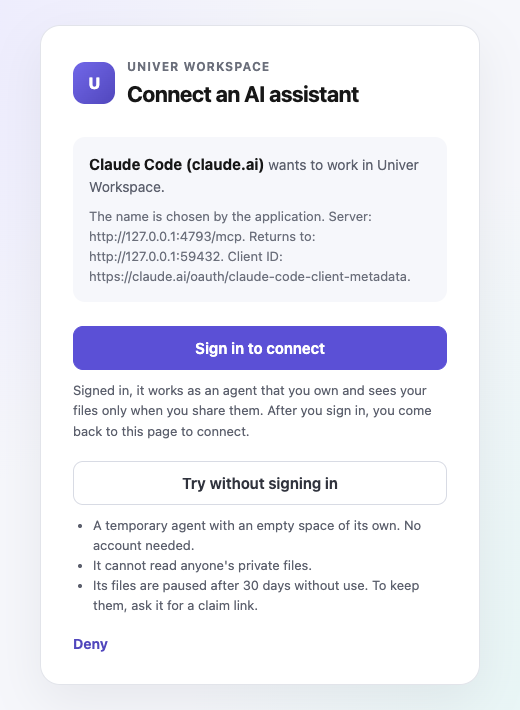
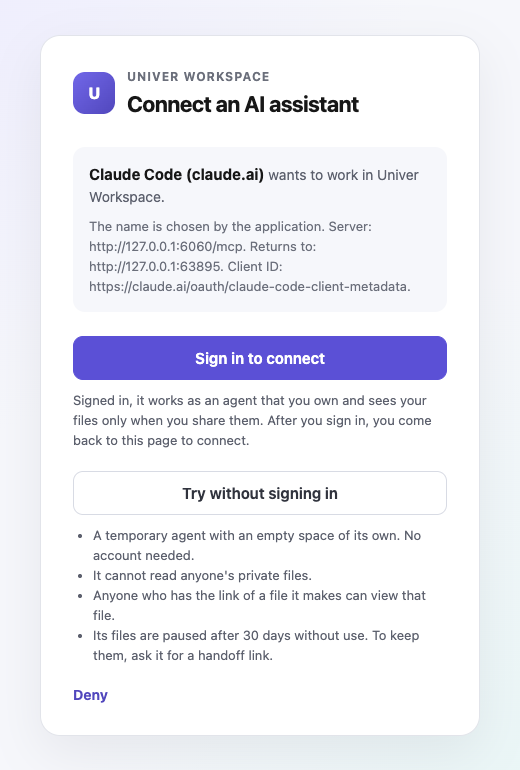
docs(workspace): describe a temporary agent's file links and the choice at the take
Amend the agent identity design with section 4.10, the narrowing of D2
that the user decided on 2026-11-27, and bring the data model, the
READMEs, the sign-in guide and the handoff showcase in line with it.
Retake the signed-out connect page, which has a fourth trial line, and
add the signed-in handoff page with its checkbox.

diff --git a/apps/mcp/README.md b/apps/mcp/README.md
@@ -25,7 +25,7 @@ listed users receive them. `*` admits every user, which is acceptable only where
 such as an internal staging deployment.
 Other users retain every tool that does not need the executor, and their server instructions
 ask them to edit document contents in the browser. An unclaimed agent with the `publish` scope that `claim` needs is also told to make the user an editable copy
-instead: they see it through its handoff link, and can edit it in the browser once they take the agent. The executor checks each grant on its own: against its list before
+instead: they open it by its link, and can edit it in the browser once they take the agent through its handoff link. The executor checks each grant on its own: against its list before
 contacting Workspace, and in `workspace` mode against the access Workspace reports for the grant's session.
 
 The executor serves `GET /rpc/v1/capabilities` with the same internal bearer. Its JSON response
@@ -42,8 +42,9 @@ file capabilities missing from their list. With `space_node`, `blob_upload` and 
 checks in `.agents/checks.md` of a repository the caller owns and turn on `landing` `checks`.
 The granted scopes choose the merge workflow. A connection that has `worktree:merge` and `pr_merge` in its list is told
 to mark the verified pull request ready, merge it, and give the user the pull request link. An unclaimed agent that
-lists `claim` is told instead that it is a temporary agent, and to give the user its handoff link from `claim` when it is
-done: the user opens it to see the agent's work and signs in to take the agent.
+lists `claim` is told instead that it is a temporary agent, that anyone who has the link of a file it made can view
+that file, to give the user those links, and to give the user its handoff link from `claim` when it is
+done: the user signs in there to take the agent and keep its work.
 A person, and a claimed agent, are told instead to give the pull request link to the user, or to the person who claimed the
 agent, and stop, when that person asked to review the work or the change needs a person's decision; nothing enforces either
 choice. Any other connection is told to hand over the pull request link and leave merging to the user. The core Skill and the
@@ -196,16 +197,17 @@ answers such a call with a confirm link, which the agent gives to the user. Its 
 `notice` says the same. Right after a person claims an agent, its cached exchange may still
 lack the owner for up to 30 seconds, and the instructions then name only the person who claimed it.
 An unclaimed agent with the `publish` scope that `claim` needs gets one sentence in its server instructions and its
-`whoami` `notice`, however it was created: "You are a temporary agent. When you are done, use claim to get a handoff link
-for the user, who can open it to see your work and sign in to take it." An unclaimed agent without `publish`, a claimed
-agent and a person do not get it.
+`whoami` `notice`, however it was created: "You are a temporary agent. Anyone who has the link of a file you made can
+view that file, so give the user those links, and they can forward them. When you are done, also use claim to get a
+handoff link for the user, who signs in there to take you and keep your work." An unclaimed agent without `publish`, a
+claimed agent and a person do not get it.
 Some MCP clients, WorkBuddy 5.11.3 among them, never give the model the server instructions. They pass on tool names,
 the descriptions of the tools the model looks up, and tool results. So an agent's `whoami` description asks it to call
 `whoami` before its first reply, and an agent's `notice` also says, in the instructions' words, how it finishes a pull request.
 With `worktree:merge`, an unclaimed agent marks its own ready and merges it. A claimed agent marks it ready and merges it
 unless the person who claimed it asked to review the work or it needs a person's decision. A claimed agent then gives
 the pull request link. With the `publish` scope that `claim` needs, an unclaimed agent hands its work over with its
-handoff link. Without `publish`, it gives the pull
+file links and its handoff link. Without `publish`, it gives the pull
 request link. With `write` but not
 `worktree:merge`, the agent keeps the draft until the user says the work is finished or asks for review, gives the user the
 pull request link, and leaves merging and discarding to the user. A read-only connection gets no finish rule, and a person's
@@ -386,8 +388,8 @@ and the matching owner/slug candidates when available.
 | `browse` | Required `repo`; optional `number` (Issue or pull request) and `unit` | `{ url }` |
 | `space_browse` | Required `repo` (a repository or a fork address); optional `parent` (Node ID), `recursive`, `resource_kind` (`none`, `univer`, `blob`), `unit_type` (only with `univer`) | `{ nodes: [...] }`. A fork lists its upstream without the files its pull request removes and with the files it creates; a created file's `url` opens it in the pull request |
 | `space_find` | Required `repo` (a repository or a fork address), `query`; optional `resource_kind`, `unit_type` | `{ nodes: [...] }`, names containing the query |
-| `share` | Required `node` (a file link `<identity origin>/nodes/<nodeId>` or a Node ID); optional `link` (`off`, `viewer`, `editor`) | `{ url, name, link, owner: { username, kind, claimed? }, expiresAt?, access? }`. `access` says who can open the link and, while Link Sharing is off, the next step the caller can take; the wording follows the caller, not the owner, so a person reading the file of an agent they claimed gets a person's step. The text content repeats these lines. Without `link` it only reads Link Sharing; with it, it writes first. Scope `publish`. Only the owner of a Personal Space can share. Turning the link on, or raising it to `editor`, needs a person in a browser: the server changes nothing and answers `INTERACTIVE_SESSION_REQUIRED`, and the tool error carries the confirm link to give the user (see [Confirm links](#confirm-links)). An unclaimed agent does not list `share`: the server answers its Link Sharing writes with `AGENT_NOT_ALLOWED`, and it shows its work with `claim`. A link of another origin is `workspace-origin-mismatch`. A file in a Team Space has no Link Sharing, in the browser either: the tool error is `workspace-argument-invalid`, names the repository, and points to `repo_member_write` and `repo_edit`. `expiresAt` appears while the owner is an unclaimed agent: the date that agent, and any link it turned on earlier, stops working unless the agent is used before then |
-| `claim` | None. Listed only for an unclaimed agent | `{ claimUrl, expiresAt }`: the agent's handoff link, `<identity origin>/claim/<code>`. Whoever opens it sees everything the agent owns, read-only and live, without signing in, private repositories included, and a person signs in there to take the agent. The link works for 7 days, or until a person takes the agent; the agent gives the same link again and calls `claim` again only when the link is lost or has expired. An agent keeps at most 10 working links. Scope `publish`, because the link shows the agent's files and the person who takes the agent becomes their owner |
+| `share` | Required `node` (a file link `<identity origin>/nodes/<nodeId>` or a Node ID); optional `link` (`off`, `viewer`, `editor`) | `{ url, name, link, owner: { username, kind, claimed? }, expiresAt?, access? }`. `access` says who can open the link and, while Link Sharing is off, the next step the caller can take; the wording follows the caller, not the owner, so a person reading the file of an agent they claimed gets a person's step. The text content repeats these lines. Without `link` it only reads Link Sharing; with it, it writes first. Scope `publish`. Only the owner of a Personal Space can share. Turning the link on, or raising it to `editor`, needs a person in a browser: the server changes nothing and answers `INTERACTIVE_SESSION_REQUIRED`, and the tool error carries the confirm link to give the user (see [Confirm links](#confirm-links)). An unclaimed agent does not list `share`: the server answers its Link Sharing writes with `AGENT_NOT_ALLOWED`. Anyone who has the link of a file it owns can view that file until a person takes it, and it hands everything over with `claim`. A link of another origin is `workspace-origin-mismatch`. A file in a Team Space has no Link Sharing, in the browser either: the tool error is `workspace-argument-invalid`, names the repository, and points to `repo_member_write` and `repo_edit`. `expiresAt` appears while the owner is an unclaimed agent: the date that agent, and any link it turned on earlier, stops working unless the agent is used before then |
+| `claim` | None. Listed only for an unclaimed agent | `{ claimUrl, expiresAt }`: the agent's handoff link, `<identity origin>/claim/<code>`. Whoever opens it sees everything the agent owns, read-only and live, without signing in, private repositories included, and a person signs in there to take the agent and chooses whether the agent's file links keep working. The text content says how to hand the link over and that each file also opens by its own link. The link works for 7 days, or until a person takes the agent; the agent gives the same link again and calls `claim` again only when the link is lost or has expired. An agent keeps at most 10 working links. Scope `publish`, because the link shows the agent's files and the person who takes the agent becomes their owner |
 | `unit_list` | Required `worktree` (Worktree ID or fork address) | `{ units: [...] }`, each with the pull request page `url`. A clean fork lists none |
 | `unit_add` | Required `worktree`, `resource` (Resource ID of an existing file) | `{ unit }` |
 | `unit_create` | Required `worktree`, `space` (a fork address names its upstream), `type` (`sheet`, `doc`, `slide`, `base`, `board`), `name`; optional `parent`, `from` (a file link or Node ID of a file the caller can open; not with a fork address), `idempotency_key` | `{ unit }`. Reusing a key returns the same Unit. With `from` the Unit is a copy of that file with its content and images, `type` must be its type, and the merged file records it as its source. An unreadable `from` is `workspace-not-found` |
@@ -501,8 +503,9 @@ A `url` that resolves to another origin is dropped. The person opens the link, s
 and confirms or gives up. A call that keeps or lowers the stored access, such as making a repository private, removing
 a member or turning a link off, runs as before.
 
-An unclaimed agent has no person to confirm for it. Every such call returns `AGENT_NOT_ALLOWED` with a message
-telling it to give the user its handoff link from `claim`.
+An unclaimed agent has no person to confirm for it. Every such call returns `AGENT_NOT_ALLOWED`. The message says
+that its files can already be viewed by link, and that a public repository, a new member and an editor link wait until
+a person takes it through its handoff link from `claim`.
 
 ## SVG resource catalog
 
@@ -988,8 +991,11 @@ hides the save tool when an old executor lacks this operation. The preview URL
 and published immersive share URL use the identity origin.
 `repositoryVisibility` is `public` or `private`, from destination `publicRead`.
 Sorted `privateSourceUnitIds` identify declared Sheets in non-public repositories.
+For an unclaimed agent, the list leaves out the Sheets in repositories that the agent owns,
+because anyone who has the page link reads them until a person takes the agent.
 Anyone with the published link can view the page and its declared data when visibility
-is public and the private-source list is empty. Private sources remain inaccessible
+is public and the private-source list is empty, and also when an unclaimed agent owns the
+page and the list is empty. Private sources remain inaccessible
 to signed-out visitors even on a public page. Signed-out visitors and signed-in
 non-members are read-only; page writes are rejected for them.
 Validation and source-read failures before the draft POST preserve their read error

diff --git a/apps/workspace/README.zh-CN.md b/apps/workspace/README.zh-CN.md
@@ -88,7 +88,7 @@ Ask 模式的常规调用使用 `[read]`，Auto 模式使用 `[read, write]`。A
 
 `GET /api/auth/authorize` 对 DCR 和 CIMD 客户端返回连接页，页面有两种状态。会话的 User 是 Agent 时按没有会话处理，页面也不动它的 Cookie，所以 Agent 的 Cookie 不会让客户端以这个 Agent 的身份连接。没有人登录时，页面提供 **Sign in to connect**（登录后回到同一个地址）、指向客户端回调并带 `access_denied` 的 **Deny** 链接，以及开启访客 Agent 时的 **Try without signing in**。这个按钮是一个表单，把授权请求的查询字符串作为 `oauthAuthorization` 提交给 `POST /api/auth/authorize/guest`。该接口以 `303` 跳回客户端回调，带上新访客 Agent 的授权码，或授权页本会发给客户端的 OAuth 错误。它不读取会话，也不设置 Cookie，浏览器保持未登录。请求包含 `write` 时，授权码带 `read write publish worktree:merge`，否则只带 `read`。不能交给客户端的错误显示为一个 HTML 页面，写明错误码并链接回连接页。Workspace Agent 等静态 OAuth 客户端需要人登录，返回 `400`，未知客户端和未登记的 `redirect_uri` 同样返回 `400`（客户端元数据文档暂时无法获取时返回 `503`）。已达创建上限的来源看到的按钮不可点，并写明原因，仍然提交时在获取任何内容之前返回 `429`。客户端兑换授权码之前不会创建任何 Agent。CIMD 客户端的元数据文档在显示页面之前获取，没有人登录且开启了访客 Agent 时匿名获取。服务端同时最多运行 32 个元数据获取，匿名获取最多发起其中 8 个，每个来源同时只有一个，登录用户的授权始终保留其余 24 个。每个来源每小时最多发起 10 次匿名获取，失败或超时的也计入；命中缓存或加入已在进行的获取不计次数。匿名获取被拒绝时浏览器转到登录页；关闭访客 Agent 时，未登录的 CIMD 请求也转到登录页，不获取任何内容。试用表单提交时在同样的限制下再解析一次客户端：用完每小时次数的来源返回 `429`；匿名获取全部占用，或该来源已有另一个获取在进行时，返回带 `Retry-After` 的 `503 CLIENT_METADATA_BUSY`，不获取任何内容。该客户端在动态注册记录或客户端元数据文档中给出名称时（Claude Code 属于后者），服务端以该名称为访客命名，例如 `Claude Code · 7f3k`，同一客户端的多个 Agent 仍可区分。名称遵循显示名规则：不含邮箱地址，不含控制、不可见或改变书写方向的字符，最多 40 个字符。客户端没有名称时，访客名为 `agent`。
 
-未认领的 Agent 每次认证或有人打开它的交接链接（handoff link）时，到期时间会延至 30 天后，每天最多续期一次。未认领的 Agent 用 `POST /api/agents/claim-codes` 取得交接链接 `/claim/<code>`，7 天内有效。打开它不需要登录：浏览器把码存在 httpOnly 的 `workspace_handoff` cookie 里，此后没有登录会话的请求可以只读查看这个 Agent 拥有的空间、文件和 HTML View，数据是实时的，其他内容与匿名访客相同。服务端每个请求和每次新建实时连接都在数据库里核对码和 Agent，所以有人收下 Agent、Agent 被封禁或码过期后，预览在所有副本上结束；处理收下请求的副本还会立刻关闭它上面的 Trunk 协同连接，重连时重新鉴权，其他副本上已打开的预览连接保持到断开，码过期或 Agent 被封禁也不会主动关闭已打开的预览连接。人在这个页面登录后用 `POST /api/agents/claim` 收下 Agent；已登录的会话优先于 cookie，登录的人收下之后才能打开文件。Agent 有主人之后，别人打开链接收到 `409 AGENT_ALREADY_CLAIMED`。Agent 到期或被封禁后，其个人空间和团队空间仅自己和认领人可读，其他人打开其链接会收到“未找到”。无论上次活跃距今多久，到期 Agent 再次认证即可恢复。被封禁的 Agent 认证时返回 `401`，兑换令牌返回 `invalid_grant`。运行 `pnpm db:ban-agent <username or user id>` 可封禁 Agent，生产构建使用 `db:ban-agent:production`。该命令只接受 Agent，重复执行不会再次变更状态。参数既是一个用户的 ID、又是另一个用户的用户名，或同时是两个仅大小写不同的用户 ID 时（两者都忽略大小写比较），命令按匹配的标识列出每个用户并拒绝执行，换用另一个标识即可。既有协同连接保持到会话结束。MCP 网关最多缓存令牌兑换结果 30 秒，此期间，`whoami` 等不访问 Workspace 的工具可能仍会响应已封禁的令牌。
+未认领的 Agent 每次认证、有人打开它的交接链接（handoff link）或它的文件页时，到期时间会延至 30 天后，每天最多续期一次。拿到未认领 Agent 某个文件链接的任何人都能查看这个文件，不需要登录，也不需要链接分享（Link Sharing）。这条规则覆盖它个人空间和团队空间里的每个文件，只给查看者权限；一个链接只打开一个文件，文件夹、空间和文件列表不开放。有人收下 Agent、Agent 被封禁或到期后，规则结束。未认领的 Agent 用 `POST /api/agents/claim-codes` 取得交接链接 `/claim/<code>`，7 天内有效。打开它不需要登录：浏览器把码存在 httpOnly 的 `workspace_handoff` cookie 里，此后没有登录会话的请求可以只读查看这个 Agent 拥有的空间、文件和 HTML View，数据是实时的，其他内容与匿名访客相同。服务端每个请求和每次新建实时连接都在数据库里核对码和 Agent，所以有人收下 Agent、Agent 被封禁或码过期后，预览在所有副本上结束；处理收下请求的副本还会立刻关闭它上面的 Trunk 协同连接，重连时重新鉴权，其他副本上已打开的预览连接保持到断开，码过期或 Agent 被封禁也不会主动关闭已打开的预览连接。人在这个页面登录后用 `POST /api/agents/claim` 收下 Agent；已登录的会话优先于 cookie，登录的人收下之后才能打开空间和文件列表。页面上有一个默认勾选的复选框，请求随之带 `keepFileLinks: true`：服务端在收下之后、同一个请求里，给 Agent 个人空间中收下之前创建、不在回收站里、还没有链接分享设置的文件各开启查看者权限的链接分享，这些链接继续有效；Agent 自己关掉的保持关闭。不带这个字段时，文件链接随收下失效。团队空间没有链接分享，其中的文件链接总是失效，页面会列出这些团队空间。Agent 有主人之后，别人打开链接收到 `409 AGENT_ALREADY_CLAIMED`。Agent 到期或被封禁后，其个人空间和团队空间仅自己和认领人可读，其他人打开其链接会收到“未找到”。无论上次活跃距今多久，到期 Agent 再次认证即可恢复。被封禁的 Agent 认证时返回 `401`，兑换令牌返回 `invalid_grant`。运行 `pnpm db:ban-agent <username or user id>` 可封禁 Agent，生产构建使用 `db:ban-agent:production`。该命令只接受 Agent，重复执行不会再次变更状态。参数既是一个用户的 ID、又是另一个用户的用户名，或同时是两个仅大小写不同的用户 ID 时（两者都忽略大小写比较），命令按匹配的标识列出每个用户并拒绝执行，换用另一个标识即可。既有协同连接保持到会话结束。MCP 网关最多缓存令牌兑换结果 30 秒，此期间，`whoami` 等不访问 Workspace 的工具可能仍会响应已封禁的令牌。
 
 共享 MCP 执行层在同一个容器里为所有用户运行脚本，因此由运维决定谁能使用。运行 `pnpm db:executor-access grant <username or user id>` 授权，`revoke` 撤销，`list` 列出已授权的用户，没有时提示无人获得授权；生产构建使用 `db:executor-access:production`，运行时镜像内执行 `node dist/server/db/executor-access.js`。重复授权或撤销不会再次变更状态，参数同时指向两个用户时与 `db:ban-agent` 一样拒绝执行。没有任何 HTTP 接口能修改授权，用户和 Agent 都不能给自己授权。已授权用户的 `GET /api/session` 返回 `executorAccess: true`，令牌兑换返回 `executor_access: true`，未授权时不返回该字段。MCP 设置 `MCP_EXECUTOR_ALLOWED_USER_IDS=workspace` 后，网关和执行层约 30 秒后跟随授权变化，无需重启。MCP 从 `*` 或用户 ID 列表切换到 `workspace` 之前，先授权当前使用执行层的用户，`workspace` 不放行其他人。
 

diff --git a/docs/agent-handoff-showcase.md b/docs/agent-handoff-showcase.md
@@ -60,7 +60,7 @@ People make these decisions:
 | Start an agent without an account | The person who clicks **Try without signing in** on the connect page, in the browser | An agent can also run `uvw auth guest` itself                                         |
 | Take an agent                     | The person who opens its handoff link and signs in, in the browser                    | No                                                                                    |
 | Review and merge a pull request   | The author or the person who claimed the agent, or in a Team Space a member who can edit, in the browser or with `uvw pr merge` | A guest agent and a claimed agent merge their own. Your AI assistant leaves it to you |
-| Turn on Link Sharing              | The file's owner, in the browser. `uvw share` and `share` return a confirm link to open there | No. A claimed agent and your AI assistant give you the confirm link. A guest agent gives its handoff link instead |
+| Turn on Link Sharing              | The file's owner, in the browser. `uvw share` and `share` return a confirm link to open there | No. A claimed agent and your AI assistant give you the confirm link. A guest agent needs none to show a file: anyone who has the file's link can view it |
 | Make a Space public               | The Space's owner or an admin, in the browser or with `uvw repo edit`                 | No. Your AI assistant cannot through MCP either                                       |
 | Remix a copy                      | A signed-in person, on the share page                                                 | An agent copies with `unit_create` and `from`                                         |
 | Hand a file to your agent         | Whoever opens the share page, with **Hand to my agent**                               | An agent that gets the link can read or copy it directly                              |
@@ -86,13 +86,13 @@ For a Doc or a Slide, use `inspect` with `target` set to `document` or `presenta
 
 ## Start an agent without an account
 
-**An agent that has never used Workspace gets its own name and space, makes a file, and returns one link that shows its work.**
+**An agent that has never used Workspace gets its own name and space, makes a file, and returns a link that anyone can open to view it.**
 
 When the browser an MCP client opens is not signed in to Workspace, the connect page offers **Sign in to connect** and **Try without signing in**. The second one gives the client a guest agent, and the browser stays signed out:
 
-![The connect page with nobody signed in. Claude Code (claude.ai) wants to work in Univer Workspace. The page offers Sign in to connect, then Try without signing in with three lines about the temporary agent, and Deny](images/agent-handoff/connect-signed-out.png)
+![The connect page with nobody signed in. Claude Code (claude.ai) wants to work in Univer Workspace. The page offers Sign in to connect, then Try without signing in with four lines about the temporary agent, and Deny](images/agent-handoff/connect-signed-out.png)
 
-The guest is named after its client, such as "Claude Code · g3wq", and gets an empty Personal Space. Its server instructions and its `whoami` result tell it that it is a temporary agent and that, when it is done, it gives the user a handoff link from `claim`. `whoami` carries this for clients that never show the model the server instructions. The agent works in a pull request, merges it, and makes its handoff link:
+The guest is named after its client, such as "Claude Code · g3wq", and gets an empty Personal Space. Its server instructions and its `whoami` result tell it that it is a temporary agent, that anyone who has the link of a file it made can view that file, and that, when it is done, it also gives the user a handoff link from `claim`. `whoami` carries this for clients that never show the model the server instructions. The agent works in a pull request, merges it, gives the user the file's link, and makes its handoff link:
 
 ```text
 pr_create   { "repo": "<agent>/personal", "title": "Q3 team budget" }
@@ -117,13 +117,15 @@ uvw claim
 
 `claim` returns the handoff link, `{ "claimUrl": "https://space.univer.ai/claim/<code>", "expiresAt": "<in 7 days>" }`, and `uvw claim` prints it. The link works for 7 days, or until a person takes the agent, so the agent gives the same link again and makes a new one only when it is lost or has expired.
 
-The handoff link is the one way a guest agent shows its work. It cannot turn on Link Sharing, make a repository public or add members: the server refuses, and tells it to give the user the handoff link.
+A guest agent shows its work in two ways. Anyone who has the link of a file it made, `https://space.univer.ai/nodes/<nodeId>`, can view that file without signing in, and can forward the link. The link opens that file only, never a folder or the repository, and nobody edits through it. A page opens with live data from the agent's own Sheets. The handoff link shows everything the agent owns in one place, and a person takes the agent there.
+
+The agent cannot do more than that by itself. It cannot let link visitors edit, make a repository public or add members: the server refuses, and tells it that these wait until a person takes it. It also cannot close a file's link.
 
 Until a person takes it, a guest agent keeps at most 20 files of up to 10 MiB each, its files expire after 30 days without use, and its files are marked **Unverified agent**. It cannot read anyone's private files or join a Team Space.
 
 ## See the agent's work, then take the agent
 
-**Whoever opens the handoff link sees the agent's work at once, read-only and live, without signing in. A person signs in there to take the agent and keep its files.**
+**Whoever opens the handoff link sees all of the agent's work at once, read-only and live, without signing in. A person signs in there to take the agent, keep its files, and choose whether its file links keep working.**
 
 ```mermaid
 flowchart TB
@@ -135,9 +137,13 @@ flowchart TB
 
 The handoff page names the agent and lists the Spaces it owns with their files. Without signing in, you open any of them read-only, private repositories included, and an HTML View among them reads its Sheet data live. The browser keeps this preview for as long as the link works: 7 days, or until a person takes the agent.
 
-**Sign in and take it** signs you in and comes back to the page, and **Take it** makes you the agent's owner. The page then opens where the agent's work is: the one Team repository or Personal Space that holds it, or, when its work is in more than one of them, the repository list filtered to the agent. Once you are signed in, the page shows the summary only, and you open the files after you take the agent.
+**Sign in and take it** signs you in and comes back to the page, and **Take it** makes you the agent's owner. The page then opens where the agent's work is: the one Team repository or Personal Space that holds it, or, when its work is in more than one of them, the repository list filtered to the agent. Once you are signed in, the page shows the summary only. You open a file by its own link, and browse the Spaces after you take the agent.
 
-After that, the link shows nothing to anyone else: it says that the agent has an owner. The agent's files stop expiring and lose the **Unverified agent** mark, and you turn on Link Sharing in the browser for a file you want to send on.
+![The handoff page for a signed-in person. Under the account that will own the agent, a checked box reads Keep its file links working for anyone who has them, above the Take it button](images/agent-handoff/take-agent.png)
+
+Taking the agent ends the rule that opens its files by link. The checkbox **Keep its file links working for anyone who has them** is checked by default. With it, each file in the agent's Personal Space that has no Link Sharing setting gets viewer Link Sharing, so the links that the agent gave out keep working, and you turn any of them off in the Share dialog. Without it, those links stop when you take the agent. A Team repository has no Link Sharing, so links to its files always stop, and the page names those repositories.
+
+After that, the handoff link shows nothing to anyone else: it says that the agent has an owner. The agent's files stop expiring and lose the **Unverified agent** mark.
 
 ## One file brings the next
 

diff --git a/docs/agent-handoff-showcase.zh-CN.md b/docs/agent-handoff-showcase.zh-CN.md
@@ -60,7 +60,7 @@ sequenceDiagram
 | 让 Agent 不用账号开始   | 在连接页上点 **Try without signing in** 的人，在浏览器里 | Agent 也可以自己运行 `uvw auth guest`                      |
 | 收下 Agent              | 打开交接链接并登录的人，在浏览器里                   | 不能                                                       |
 | 审阅并合入 Pull request | 作者或认领人，在 Team Space 里还有能编辑的成员，在浏览器里或用 `uvw pr merge` | 访客 Agent 和已认领的 Agent 合入自己的。你的 AI 助手留给你 |
-| 打开链接分享            | 文件的所有者，在浏览器里。`uvw share` 和 `share` 返回一个确认链接，要在浏览器里打开 | 不能。已认领的 Agent 和你的 AI 助手把确认链接交给你，访客 Agent 改给交接链接 |
+| 打开链接分享            | 文件的所有者，在浏览器里。`uvw share` 和 `share` 返回一个确认链接，要在浏览器里打开 | 不能。已认领的 Agent 和你的 AI 助手把确认链接交给你。访客 Agent 展示文件不需要它：拿到文件链接的人都能查看 |
 | 公开一个空间            | 空间的所有者或管理员，在浏览器里或用 `uvw repo edit` | 不能。你的 AI 助手通过 MCP 也不能                          |
 | Remix 一份副本          | 已登录的人，在分享页                                 | Agent 用 `unit_create` 带 `from` 复制                      |
 | 把文件交给自己的 Agent  | 打开分享页的人，点 **交给我的 Agent**                | 拿到链接的 Agent 可以直接读取或复制                        |
@@ -86,13 +86,13 @@ Doc 或 Slide 用 `inspect`，并把 `target` 设为 `document` 或 `presentatio
 
 ## 没有账号的 Agent 也能开始工作
 
-**从未用过 Workspace 的 Agent 得到自己的名字和空间，创建文件，并返回一个能看到它成果的链接。**
+**从未用过 Workspace 的 Agent 得到自己的名字和空间，创建文件，并返回一个任何人都能打开查看的链接。**
 
 MCP 客户端打开的浏览器没有登录 Workspace 时，连接页提供 **Sign in to connect** 和 **Try without signing in**。点后者，客户端得到一个访客 Agent，浏览器保持未登录：
 
-![没有人登录时的连接页。Claude Code (claude.ai) wants to work in Univer Workspace，页面提供 Sign in to connect，然后是 Try without signing in 和三行关于临时 Agent 的说明，最后是 Deny](images/agent-handoff/connect-signed-out.png)
+![没有人登录时的连接页。Claude Code (claude.ai) wants to work in Univer Workspace，页面提供 Sign in to connect，然后是 Try without signing in 和四行关于临时 Agent 的说明，最后是 Deny](images/agent-handoff/connect-signed-out.png)
 
-访客 Agent 以客户端命名，例如 "Claude Code · g3wq"，并得到一个空的个人空间。服务器说明和 `whoami` 结果都告诉它：它是一个临时 Agent，做完后用 `claim` 拿一个交接链接（handoff link）给用户。有些客户端不把服务器说明交给模型，所以 `whoami` 也写明这句话。Agent 在 Pull request 里工作，合入后生成交接链接：
+访客 Agent 以客户端命名，例如 "Claude Code · g3wq"，并得到一个空的个人空间。服务器说明和 `whoami` 结果都告诉它：它是一个临时 Agent，拿到它所做文件的链接的人都能查看这个文件，做完后还要用 `claim` 拿一个交接链接（handoff link）给用户。有些客户端不把服务器说明交给模型，所以 `whoami` 也写明这些话。Agent 在 Pull request 里工作，合入后把文件链接交给用户，并生成交接链接：
 
 ```text
 pr_create   { "repo": "<agent>/personal", "title": "Q3 team budget" }
@@ -117,13 +117,15 @@ uvw claim
 
 `claim` 返回交接链接，`{ "claimUrl": "https://space.univer.ai/claim/<code>", "expiresAt": "<7 天后>" }`，`uvw claim` 打印同一个链接。链接 7 天内有效，有人收下 Agent 后也随之结束，所以 Agent 再次给出的是同一个链接，只有链接丢了或过期了才重新生成。
 
-交接链接是访客 Agent 展示成果的唯一方式。它不能打开链接分享、公开仓库或添加成员：服务端会拒绝，并告诉它把交接链接交给用户。
+访客 Agent 有两种方式展示成果。拿到它所做文件的链接 `https://space.univer.ai/nodes/<nodeId>` 的任何人都能查看这个文件，不用登录，也可以把链接转发给别人。一个链接只打开这一个文件，打不开文件夹和仓库，也不能通过它编辑。页面打开时带着 Agent 自己的 Sheet 里的实时数据。交接链接在一处显示 Agent 拥有的全部内容，人在那里收下 Agent。
+
+除此之外，Agent 自己做不了更多。它不能让链接访客编辑、公开仓库或添加成员：服务端会拒绝，并告诉它这些要等有人收下它。它也不能关闭某个文件的链接。
 
 在有人收下之前，访客 Agent 最多保留 20 个文件，每个不超过 10 MiB，文件 30 天不用会过期，文件上也标着 **未验证的 Agent**。它读不到任何人的私有文件，也不能加入团队空间。
 
 ## 先看 Agent 的成果，再收下它
 
-**打开交接链接的人不用登录，立刻就能看到 Agent 的成果，只读，数据是实时的。在那里登录后收下 Agent，它的文件就留下了。**
+**打开交接链接的人不用登录，立刻就能看到 Agent 的全部成果，只读，数据是实时的。在那里登录后收下 Agent，它的文件就留下了，还可以选择它的文件链接是否继续有效。**
 
 ```mermaid
 flowchart TB
@@ -135,9 +137,13 @@ flowchart TB
 
 交接页显示 Agent 的名字，并列出它拥有的空间和其中的文件。不用登录，你就能只读打开其中任何一个，私有仓库里的也可以，其中的 HTML View 实时读取它的 Sheet 数据。链接有效期内，浏览器一直保留这份预览：7 天，或者到有人收下 Agent 为止。
 
-点 **登录后收下** 登录并回到这个页面，再点 **收下**，你就成为 Agent 的主人。随后页面打开 Agent 的成果所在的位置：只有一个团队仓库或个人空间有内容时打开它，分布在多处时打开按这个 Agent 筛选的仓库列表。你已登录时，页面只显示摘要，收下 Agent 之后才能打开文件。
+点 **登录后收下** 登录并回到这个页面，再点 **收下**，你就成为 Agent 的主人。随后页面打开 Agent 的成果所在的位置：只有一个团队仓库或个人空间有内容时打开它，分布在多处时打开按这个 Agent 筛选的仓库列表。你已登录时，页面只显示摘要。你可以用文件自己的链接打开文件，收下 Agent 之后才能浏览它的空间。
 
-此后别人打开这个链接什么也看不到，页面只说明这个 Agent 已经有主人了。Agent 的文件不再过期，也去掉 **未验证的 Agent** 标记；想把某个文件发给别人时，你在浏览器里为它打开链接分享。
+![已登录的人看到的交接页。在归属账号下面有一个已勾选的复选框“让它的文件链接对持有链接的人继续有效”，再下面是“收下”按钮](images/agent-handoff/take-agent.zh-CN.png)
+
+收下 Agent 会结束“文件凭链接可见”这条规则。复选框 **让它的文件链接对持有链接的人继续有效** 默认勾选。勾选时，Agent 个人空间里还没有链接分享设置的文件各开启查看者权限的链接分享，Agent 给出去的链接继续有效，你可以在分享对话框里逐个关闭。不勾选时，这些链接在你收下 Agent 后失效。团队仓库没有链接分享，其中的文件链接总是失效，页面会列出这些仓库。
+
+此后别人打开交接链接什么也看不到，页面只说明这个 Agent 已经有主人了。Agent 的文件不再过期，也去掉 **未验证的 Agent** 标记。
 
 ## 一个文件带来下一个
 

diff --git a/apps/workspace/README.md b/apps/workspace/README.md
@@ -277,7 +277,8 @@ A static OAuth client still needs a person signed in. A browser without one goes
 with `requiresConsent`, such as the Workspace Agent or the Space plugin, then gets its consent page with Allow
 and Deny, and any other static client gets its code at once.
 
-While an agent is unclaimed, authenticating it or opening its handoff link moves its
+While an agent is unclaimed, authenticating it, opening its handoff link or opening the page of one
+of its files (`/nodes/<nodeId>` on the server) moves its
 expiry to 30 days ahead, at most once a day. An expired or banned agent is suspended: only the agent
 and the human who claimed it can read its Personal Space and its Team Spaces, and its links answer as not found. An expired agent can still
 authenticate, which ends the suspension at once, whenever it was last seen. A banned agent gets `401`, and `invalid_grant` from the token
@@ -289,7 +290,15 @@ server, so a collaboration socket the agent already holds stays open until its s
 agent's token exchange for up to 30 seconds, so for that long a banned claimed agent's token still gets an answer from tools
 that do not call Workspace, such as `api_find`. It reads an unclaimed agent from its session on every request.
 
-An unclaimed agent shows its work with one handoff link, and a person takes the agent there to keep its files.
+Anyone who has the link of a file an unclaimed agent owns can view that file, signed in or not, and no
+Link Sharing is needed or read. The rule covers every Node that holds a Resource in a Space the agent owns,
+Personal or Team, and gives the viewer role and no more. The link opens that file only: the answer names no
+parent, and folders, the Space and its file list stay closed. An HTML View opens with live data from the
+agent's own Sheets, because the page and its sources resolve through the same rule. The rule ends when a
+person takes the agent, when the agent is banned, and while it is expired. The agent cannot close it for one
+file: turning that file's Link Sharing off changes nothing until a person takes the agent.
+
+An unclaimed agent hands everything over with one handoff link, and a person takes the agent there to keep its files.
 The agent calls `POST /api/agents/claim-codes`, which returns `201` with `{ code, claimUrl, expiresIn }`, and
 gives `claimUrl` (`/claim/<code>` on this origin) to the person. The code lasts seven days, or until a person
 takes the agent. The product database holds its hash, so any server replica accepts it and a restart keeps it.
@@ -304,11 +313,19 @@ code expires. The replica that handles the claim also closes the Trunk collabora
 are authorized again; a preview connection that another replica holds stays open until it drops, as after a Link
 Sharing change. Neither an expired code nor a ban closes a preview connection that is already open. A browser
 holds one preview, and opening another handoff link replaces it. A session always wins over the cookie, so a
-signed-in person sees the summary only and reads the files after taking the agent.
+signed-in person sees the summary only on this page. They open a file by its own link, and browse the Spaces
+after taking the agent.
 
-`POST /api/agents/claim` `{ "code" }` takes the agent. It needs a person's browser session: an agent, a
+`POST /api/agents/claim` `{ "code", "keepFileLinks" }` takes the agent. It needs a person's browser session: an agent, a
 CLI login and a token session get `403 INTERACTIVE_SESSION_REQUIRED`, and the page then offers Sign out
-and continue, for a browser that holds an agent's cookie. Once an agent has an owner, its code answers
+and continue, for a browser that holds an agent's cookie. The claim ends the reading of the agent's files by
+link. The page has one checkbox, checked by default, **Keep its file links working for anyone who has them**,
+which sends `keepFileLinks: true`. The server then turns on viewer Link Sharing, as the person who takes the
+agent, for each file the agent made before the claim in its Personal Space that is not in Trash and has no
+Link Sharing setting. A file whose Link Sharing the agent turned off stays off. The rows are written after the
+claim is stored, in the same request. If that step fails, the claim stands, and the same request sent again
+writes the rest. Without `keepFileLinks`, the links stop with the claim. A Team Space has no Link Sharing, so
+links to its files always stop, and the page names those Team Spaces. Once an agent has an owner, its code answers
 `409 AGENT_ALREADY_CLAIMED` to anyone but that owner, signed out included. A code older than seven days answers
 `410 AGENT_CLAIM_EXPIRED`, and an unknown code or one older than fourteen days `404 AGENT_CLAIM_INVALID`. Each of
 these answers clears the cookie, and so does a claim. Claiming sets `owner_user_id` and
@@ -352,9 +369,10 @@ plugin's sessions included) and a session issued for a token. Creating a Space t
 code without `url`, because no Space exists to confirm. The server compares the request with the stored state
 inside the write's own transaction. A write that keeps or lowers the stored access therefore passes for every
 session: making a Space private, removing a member or a grant, lowering a role, turning a link off, or repeating
-a role already held. An unclaimed agent has no person to confirm for it and gets `AGENT_NOT_ALLOWED`, with a
-message telling it to give the user its handoff link. That includes turning on a link for its own file. A link it
-turned on before this rule keeps working until the agent expires.
+a role already held. An unclaimed agent has no person to confirm for it and gets `AGENT_NOT_ALLOWED`. The
+message says that its files can already be viewed by link, and that a public repository, a new member and an
+editor link wait until a person takes it through its handoff link. That includes turning on a link for its own
+file or folder. A link it turned on before this rule keeps working until the agent expires.
 
 The confirm page reads the Space, file and user names with the person's own session and shows no text from the
 link. It states the consequence, shows the current and the new access, and offers Confirm and Give up. Confirm
@@ -602,7 +620,8 @@ viewer access, even when a link grants editors access after sign-in. They cannot
 modify source content, write comments, upload, manage permissions, or access Worktrees.
 An unclaimed agent also gets only viewer access from a link.
 HTML files and their source Sheets are authorized independently, as for signed-in users.
-A signed-out visitor who opened an unclaimed agent's handoff link also views everything that agent owns,
+Anyone who has the link of an unclaimed agent's file views that file, and a signed-out visitor who opened
+its handoff link also views everything that agent owns,
 as [CLI sign-in and Agent access](#cli-sign-in-and-agent-access) describes.
 
 A signed-out visitor sees a bar under the header on every file and folder page, and in the
@@ -629,7 +648,8 @@ agent, with the same two ways as `Hand to my agent`. Through MCP the agent copie
 pull request with `unit_create` and `from`, which needs no `read`; through `uvw` it uses
 `uvw unit create --from`. Either way it merges the pull request and gives the visitor its handoff
 link. Both prompts have the agent tell the visitor to open the handoff link first: the copy shows there
-without signing in, and is theirs to edit once they sign in and take the agent. An agent cannot copy a page, so for a page the dialog
+without signing in, and is theirs to edit once they sign in and take the agent. Until then the copy's own link
+opens read-only, for the visitor and for anyone they forward it to. An agent cannot copy a page, so for a page the dialog
 offers sign-up only. A copy asked for before sign-up waits in the tab for 15 minutes, and only
 the sign-up return it was asked from makes it.
 

diff --git a/apps/cli/README.md b/apps/cli/README.md
@@ -128,7 +128,10 @@ uvw auth guest [--label <name>]
 The command creates a new guest agent with its own Personal Space, stores its session in the same
 session file as a login, and prints the agent's username and its repository `<username>/personal`.
 The agent creates files there with the usual commands, merges its pull request, and gives the user the
-handoff link from [`uvw claim`](#hand-a-guest-agents-work-over). Once a person takes it, the agent can also leave a ready pull
+links of the files it made and the handoff link from [`uvw claim`](#hand-a-guest-agents-work-over).
+Until a person takes the agent, anyone who has the link of one of its files can view that file without
+signing in. The link opens that file only, never a folder or the repository, and nobody edits through
+it. Once a person takes it, the agent can also leave a ready pull
 request for that person to review and merge; nothing enforces either choice. No agent turns a link on
 itself (see [Confirm links](#confirm-links)); the person who took it can open
 everything it owns. Before it is claimed, a guest
@@ -143,8 +146,9 @@ A guest session renews like a login session: it lasts 7 days by default, and a g
 use stays signed in. Left unused, it ends after 3.5 to 7 days by default. After the session ends, or
 after `uvw auth logout`, the CLI cannot sign in to the same agent again.
 `uvw auth guest` then creates a new agent, and nobody but a person who claimed it can change the old
-agent's files. A handoff link that the old agent gave keeps working until it expires, and the old agent
-expires 30 days after it was last used or its handoff link was last opened. A claimed agent never expires.
+agent's files. The old agent's file links, and a handoff link that it gave, keep working until they
+expire. The handoff link lasts 7 days. The old agent expires 30 days after it was last used, or after
+its handoff link or the page of one of its files was last opened. A claimed agent never expires.
 
 ## Share a file by link
 
@@ -160,12 +164,15 @@ Share a file after its pull request is merged. Only the owner of the file can us
 `--json` prints `url`, `name`, `link`, `owner`, and `access`, which says who can open the link. A
 folder's link opens everything in it. While Link Sharing is off, `access` also gives the command that
 lets anyone with the link read the file; for a person's session, it says to run it only if the user
-asks. For a guest agent, `access` points to its handoff link instead, because the server refuses it
-Link Sharing. When the owner is an unclaimed agent, the output also has `expiresAt`, the date the agent
-and any link it turned on earlier stop working unless the agent is used before then. A file in a Team
+asks. For a guest agent's file, `link` is `viewer` whatever Link Sharing is stored, `--link off`
+included, because anyone who has the link can view the file until a person takes the agent. `access`
+says so and points to the handoff link as well. A guest agent's folder reads `off`. When the owner is
+an unclaimed agent, the output also has `expiresAt`, the date the agent and its file links stop working
+unless the agent is used or one of its file pages is opened before then. A file in a Team
 Space has no Link Sharing, so the command exits 1 with
 `workspace-argument-invalid`, names the repository, and points to `uvw repo member add` and
-`uvw repo edit --visibility public`.
+`uvw repo edit --visibility public`. For a guest agent's own Team Space file, the message adds that
+the link already opens the file for viewing until a person takes the agent.
 
 ### Confirm links
 
@@ -179,7 +186,9 @@ stored access, such as `--link off`, `--visibility private` or `repo member remo
 `uvw repo create` makes a private repository and has no `--public` option.
 
 A guest agent has no person to confirm for it. Every such command, `--link viewer` included, exits 1
-with `AGENT_NOT_ALLOWED` and a message telling it to give the user its handoff link from `uvw claim`.
+with `AGENT_NOT_ALLOWED`. The message says that its files can already be viewed by link, and that a
+public repository, a new member and an editor link wait until a person takes it through the handoff
+link from `uvw claim`.
 
 ### Hand a guest agent's work over
 
@@ -191,7 +200,10 @@ uvw claim [--json]
 `--json`. Whoever opens it sees everything the agent owns, read-only and live, without signing in,
 private repositories included. A person who signs in there and takes the agent becomes its owner: the
 agent stops expiring, and the person opens, edits and manages its files in the browser. The agent
-gets no access to the person's files. The link works for 7 days, or until a person takes the agent, so
+gets no access to the person's files. On that page the person also chooses whether the agent's file
+links keep working for anyone who has them. The choice is on by default and covers the files in the
+agent's Personal Space. Links to files in its Team Spaces stop.
+The handoff link works for 7 days, or until a person takes the agent, so
 give the same link again and make a new one only when it is lost or has expired. An agent keeps at most
 10 working links, and the eleventh ends the oldest. A claimed agent or a person gets an error.
 

diff --git a/docs/agent-sign-in.md b/docs/agent-sign-in.md
@@ -183,7 +183,7 @@ For a CIMD client, Workspace fetches the document before anyone signs in, so eve
 
 Unless the deployment turned guest agents off, the page also offers **Try without signing in**. It gives the client a guest agent instead of a person. A guest agent is a new agent account named after the client (the CIMD document's `client_name`, or the name a DCR client registered), such as "Claude Code · g3wq". It has an empty Personal Space and can read nobody's private files. The button sends the browser straight back to the callback with a code, and the browser stays signed out. The code carries `read write publish worktree:merge` when the client asked for `write`, and only `read` otherwise. Workspace creates the agent only when the client trades the code for tokens, so a code the client never uses leaves nothing behind. By default each address creates at most 5 agents an hour (`AGENT_CREATE_LIMIT_PER_HOUR`). At that limit the button is disabled and the page says why. While 10,000 such codes wait to be traded, or once one address got 20 of them within a minute, the client gets `temporarily_unavailable` instead of a code, and you try again a minute later. With guest agents off, a CIMD client goes straight to the sign-in page.
 
-The guest agent knows what it is: its server instructions and its `whoami` result tell it that it is a temporary agent, and that when it is done it gives you a handoff link from `claim`. You open the link to see its work without signing in, and sign in there to take the agent and keep its files. The [agent handoff showcase](agent-handoff-showcase.md#start-an-agent-without-an-account) covers what a guest agent can do and how a person takes it.
+The guest agent knows what it is: its server instructions and its `whoami` result tell it that it is a temporary agent, that anyone who has the link of a file it made can view that file, and that when it is done it also gives you a handoff link from `claim`. You open a file link to view that file, or the handoff link to see all of its work, without signing in. You sign in on the handoff page to take the agent and keep its files. The [agent handoff showcase](agent-handoff-showcase.md#start-an-agent-without-an-account) covers what a guest agent can do and how a person takes it.
 
 ### Signed in
 

diff --git a/DREAMNUM.md b/DREAMNUM.md
@@ -68,7 +68,8 @@ Pro SDK dependencies, and artifact delivery retain their separately defined poli
   It lists `pr_merge` with `core`, and for an agent User also `repo_create`, `repo_edit`, the repository member tools, `space_node` and `blob_upload`. When the connection holds the
   `worktree:merge` scope, it tells the caller to merge its own verified work, and a person or a claimed agent to hand the
   pull request over instead when asked to or when a person must decide; without that scope it leaves merging to the user.
-  An unclaimed agent gets `claim` in place of `share` and shows its work with one handoff link. It runs
+  An unclaimed agent gets `claim` in place of `share`. It shows its work with the links of its files and hands
+  everything over with one handoff link. It runs
   apart from Workspace Server and connects to no database. Use is limited to local and internal single-user
   environments until Stage G. Its executor runs resident or, from the same image, on Alibaba Cloud Function Compute
   with HeaderField session affinity; the gateway finds the form through capability discovery.
@@ -152,6 +153,10 @@ Pro SDK dependencies, and artifact delivery retain their separately defined poli
   An unclaimed agent's handoff link admits a signed-out visitor as a viewer of everything that agent owns, private Spaces
   included, for 7 days or until a person takes the agent; the visitor's browser holds the link's code in a cookie, and no
   User or Login Session is created.
+  Every file an unclaimed agent owns, in its Personal Space and its Team Spaces, admits anyone who has the file's link as
+  a viewer, signed in or not, without Link Sharing. The link opens that file only, never a folder or the Space. This ends
+  when a person takes the agent, when the agent is banned, and while it is expired. The person who takes the agent
+  chooses whether its Personal Space file links keep working, as viewer Link Sharing.
   Product writes and Worktree access still require authentication; HTML source permissions remain independent.
 - Space stars are protected product User-Space relations, not memberships or access grants. The authenticated
   `GET/PUT/DELETE /api/spaces/{spaceId}/star` contract returns only the caller's state and an aggregate count;
